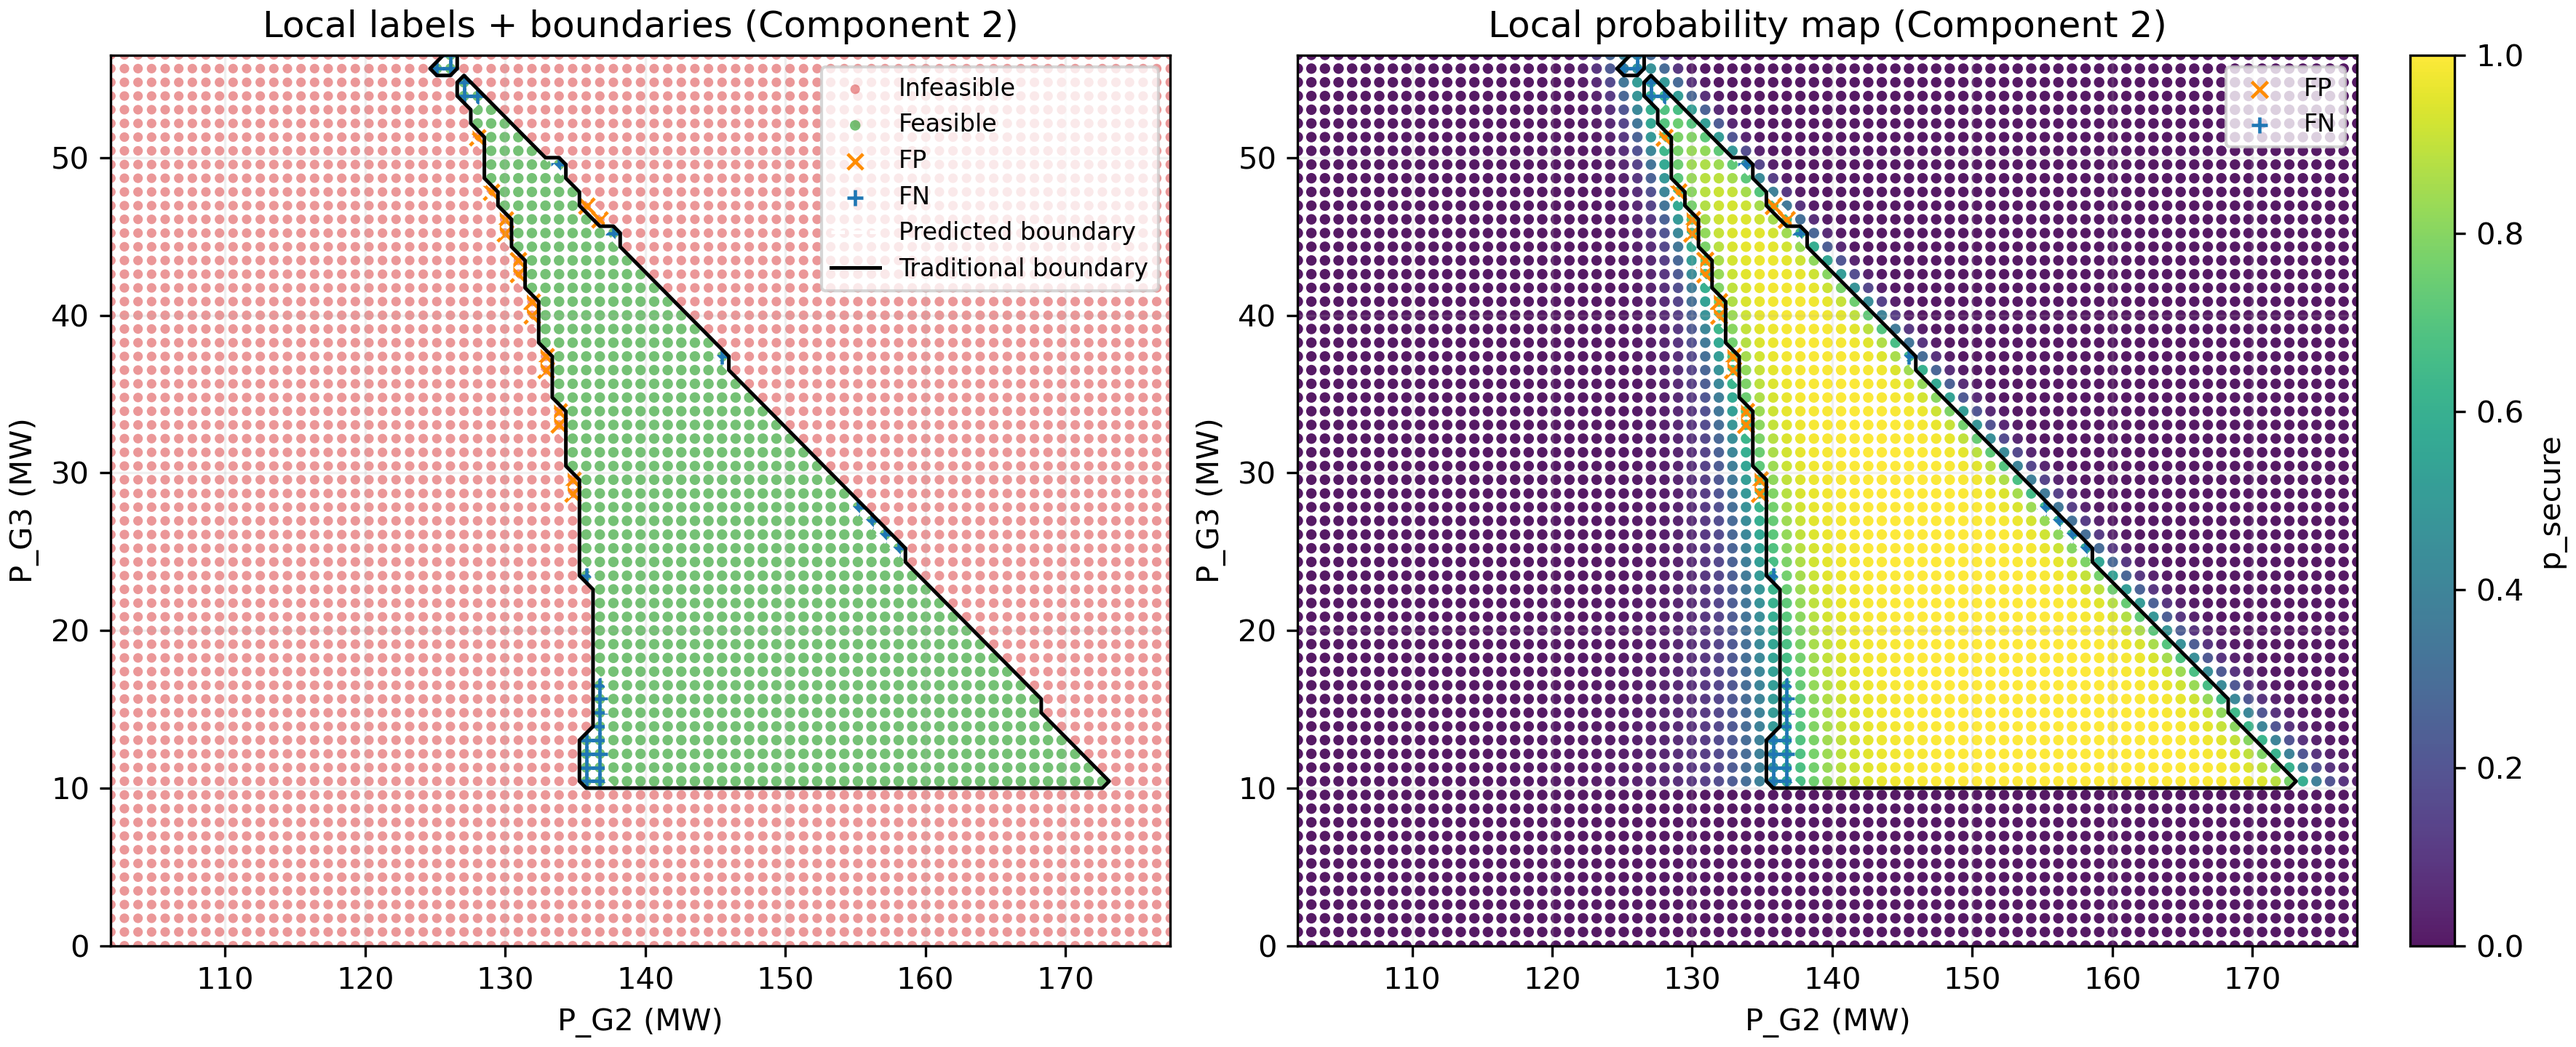
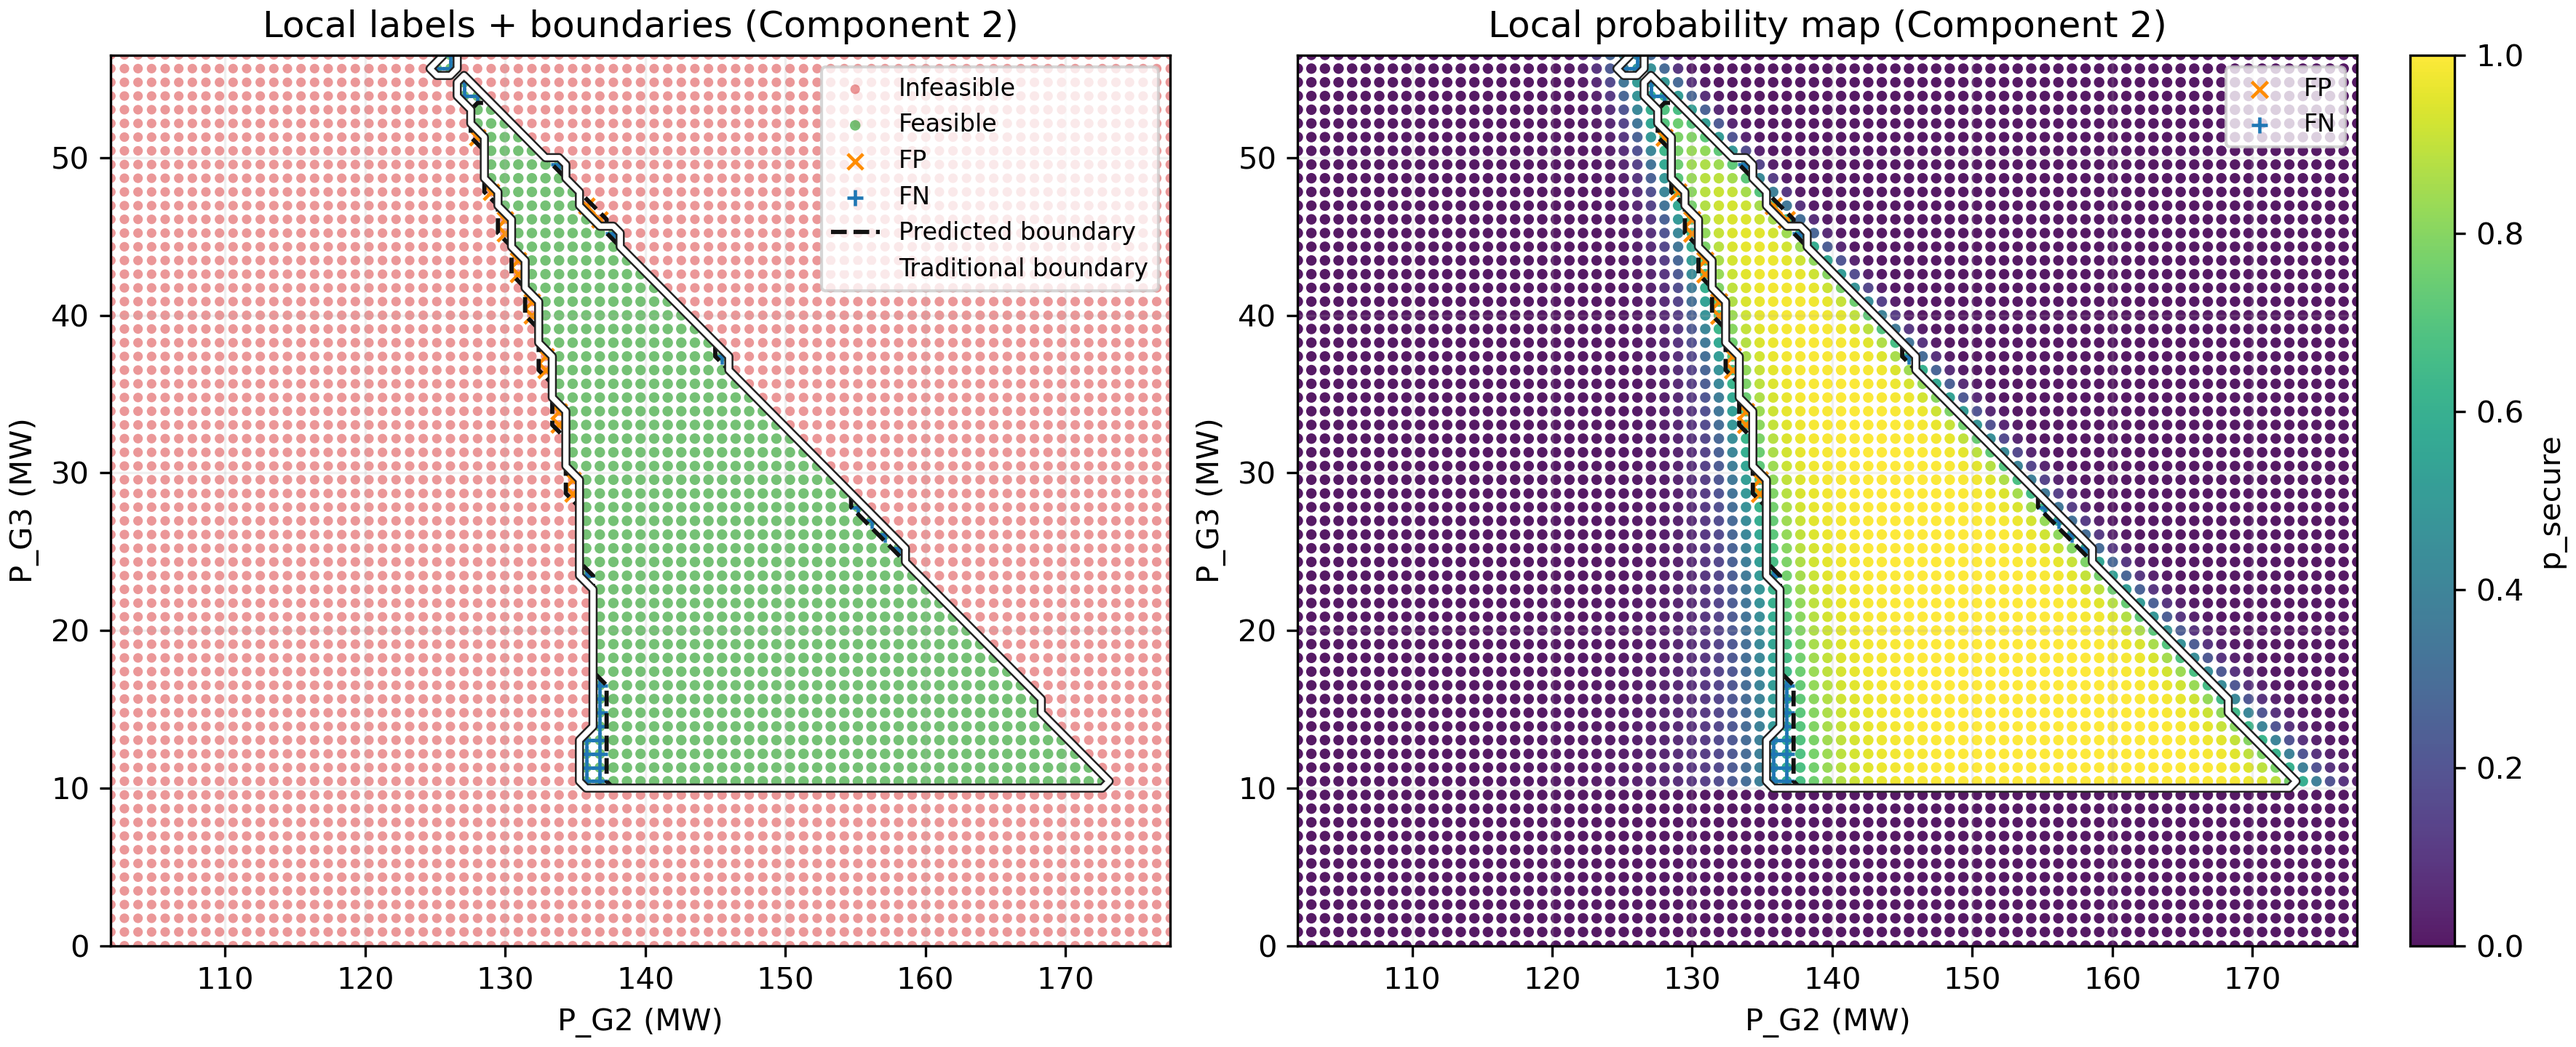
Increase traditional boundary visibility in local scatters
Redraw component-wise local scatter figures so the traditional boundary is clearly visible (white solid with dark stroke) and keep predicted boundary as black dashed for clear visual separation.

diff --git a/experiments/generate_case9_boundaryloop_local_scatter.py b/experiments/generate_case9_boundaryloop_local_scatter.py
@@ -17,6 +17,7 @@ from typing import List, Tuple
 
 import matplotlib.pyplot as plt
 import numpy as np
+import matplotlib.patheffects as pe
 
 ROOT = Path(__file__).resolve().parents[1]
 sys.path.insert(0, str(ROOT / "src"))
@@ -131,12 +132,19 @@ def main() -> None:
 
         fig, axes = plt.subplots(1, 2, figsize=(11.8, 4.8), constrained_layout=True)
 
+        def _draw_boundaries(ax):
+            # Predicted boundary: black dashed
+            ax.contour(XW, YW, prw, levels=[0.5], colors="#111111", linewidths=1.4, linestyles="--")
+            # Traditional boundary: white solid with dark stroke for visibility
+            cs = ax.contour(XW, YW, lw, levels=[0.5], colors="white", linewidths=1.8, linestyles="-")
+            for coll in cs.collections:
+                coll.set_path_effects([pe.Stroke(linewidth=3.0, foreground="#222222"), pe.Normal()])
+
         # Left: local label scatter + boundaries
         ax = axes[0]
         ax.scatter(xs[ls <= 0.5], ys[ls <= 0.5], s=10, c="#d62728", alpha=0.48, edgecolors="none", label="Infeasible")
         ax.scatter(xs[ls > 0.5], ys[ls > 0.5], s=12, c="#2ca02c", alpha=0.65, edgecolors="none", label="Feasible")
-        ax.contour(XW, YW, prw, levels=[0.5], colors="white", linewidths=1.2, linestyles="--")
-        ax.contour(XW, YW, lw, levels=[0.5], colors="black", linewidths=1.2)
+        _draw_boundaries(ax)
 
         fp = (prw > 0.5) & (lw <= 0.5)
         fn = (prw <= 0.5) & (lw > 0.5)
@@ -149,15 +157,14 @@ def main() -> None:
         ax.set_xlabel("P_G2 (MW)")
         ax.set_ylabel("P_G3 (MW)")
         ax.grid(alpha=0.2)
-        ax.plot([], [], color="white", linestyle="--", linewidth=1.2, label="Predicted boundary")
-        ax.plot([], [], color="black", linestyle="-", linewidth=1.2, label="Traditional boundary")
+        ax.plot([], [], color="#111111", linestyle="--", linewidth=1.4, label="Predicted boundary")
+        ax.plot([], [], color="white", linestyle="-", linewidth=1.8, label="Traditional boundary")
         ax.legend(loc="upper right", fontsize=8)
 
         # Right: local probability scatter + boundaries
         ax = axes[1]
         sc = ax.scatter(xs, ys, c=ps, s=12, cmap="viridis", vmin=0.0, vmax=1.0, alpha=0.90, edgecolors="none")
-        ax.contour(XW, YW, prw, levels=[0.5], colors="white", linewidths=1.2, linestyles="--")
-        ax.contour(XW, YW, lw, levels=[0.5], colors="black", linewidths=1.2)
+        _draw_boundaries(ax)
         if np.any(fp):
             ax.scatter(XW[fp], YW[fp], s=28, c="#ff8c00", marker="x", linewidths=1.1, label="FP")
         if np.any(fn):
